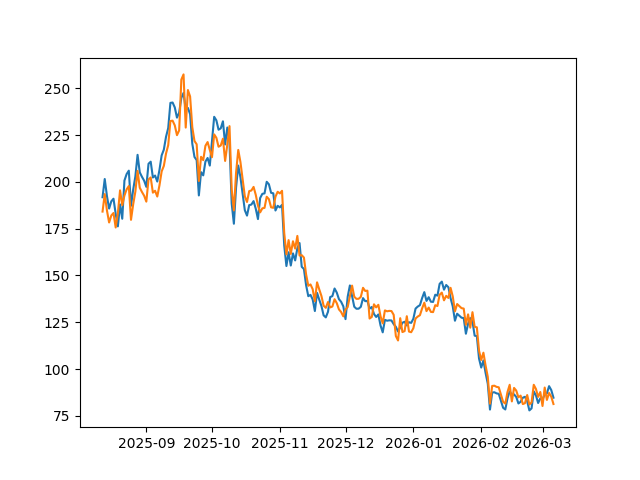
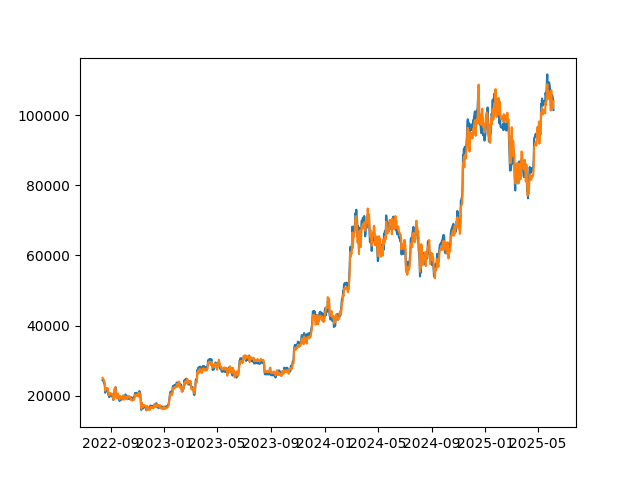
XGBoost

diff --git a/MLPipeline/app/main.py b/MLPipeline/app/main.py
@@ -11,11 +11,13 @@ import make_logger
 import json
 import requests
 import ccxt
+from sqlalchemy import create_engine
+from sqlalchemy import text
 from sklearn.model_selection import GridSearchCV
 from sklearn.tree import DecisionTreeClassifier
 from sklearn.tree import plot_tree
-from sqlalchemy import create_engine
-from sqlalchemy import text
+from sklearn.metrics import accuracy_score
+import xgboost as xgb
 
 current_file_path = Path(__file__).resolve()
 current_dir = current_file_path.parent
@@ -25,7 +27,7 @@ os.environ['WAY_TO_LOG_JOURNAL'] = str(current_dir/'logs'/'log_journal.log')
 os.environ['WAY_EXTRACT_FILES'] = str(current_dir/'extract_files')
 
 make_logger.make()
-logger = logging.getLogger('DATAMINER:dms')
+logger = logging.getLogger('MLPipeline:main')
 
 dataBase_password = os.getenv('DB_PASSWORD')
 dataBase_user = os.getenv('DB_USER')
@@ -38,7 +40,7 @@ engine = create_engine(DATABASE_URL)
 
 def main():
 
-	dataFrame = dataFrameDownloader(symbol='SOL', nameExchange='binance', amountDays=365, timeFrame='1d')
+	dataFrame = dataFrameDownloader(symbol='BTC', nameExchange='binance', amountDays=4*365, timeFrame='1d')
 
 	windowFeatures0 = 7
 	windowFeatures1 = 30
@@ -59,16 +61,13 @@ def main():
 				(dataFrame['diffCentreMoving'] > 0),
 				(dataFrame['diffCentreMoving'] < 0)
 			],
-			[
-				-1,
-				1
-			],
+			[0, 1],
 			default=0
 		)
 
 	plt.plot(dataFrame['datetime'], dataFrame['close'])
-	plt.plot(dataFrame['datetime'], dataFrame['centreMoving'])
-	plt.savefig(str(current_dir/'output'/'plotInd0.png'))
+	plt.plot(dataFrame['datetime'], dataFrame['close']*(1+(dataFrame['classEDU'] - 0.5)/20))
+	plt.savefig(str(current_dir/'output'/'plot0.png'))
 	plt.close()
 
 	workDataFrame = dataFrame.iloc[windowFeatures2:]
@@ -91,48 +90,33 @@ def main():
 	vectorF2 = np.array(workDataFrame['features2']).reshape(-1, 1)[uniCut:]
 	xTest = np.column_stack((vectorF0, vectorF1, vectorF2))
 
-	baseModel = DecisionTreeClassifier(random_state=42)
-
-	paramGrid = {
-		'max_depth': [3, 4, 5, None],
-		'min_samples_split': [2, 3, 4],
-		'min_samples_leaf': [1, 2, 3, 4],
-		'criterion': ['gini', 'entropy'],
-		'max_features': [None, 'sqrt', 'log2']
-	}
-
-	gridSearch = GridSearchCV(
-		estimator=baseModel,
-		param_grid=paramGrid,
-		cv=5,
-		scoring='accuracy',
-		n_jobs=-1,
-		verbose=1
+	model = xgb.XGBClassifier(
+		n_estimators=100,      # количество деревьев
+		max_depth=3,           # глубина дерева
+		learning_rate=0.1,     # шаг градиентного спуска
+		objective='binary:logistic',  # для многоклассовой классификации
+		eval_metric='logloss',
+		random_state=42
 	)
 
-	gridSearch.fit(xTrain, yTrain)
-	model = gridSearch.best_estimator_
-
-	plt.figure(figsize=(12, 8))
-	plot_tree(model, 
-			  feature_names=['features0', 'features1', 'features2'],
-			  class_names=['Buy', 'Sell', 'Wait'],
-			  filled=True,
-			  rounded=True,
-			  fontsize=10)
-	plt.title("DecisionTreeClassifier")
-	plt.savefig(str(current_dir/'output'/'plot0.png'))
-	plt.close()
+	model.fit(xTrain, yTrain)
 
 	yPredict = model.predict(xTrain)
+	accuracy = accuracy_score(yTrain, yPredict)
+	logger.info(f"Точность модели: {100*accuracy:.2f} %")
+
+	importance = model.feature_importances_
+	for i in range(len(importance)):
+		logger.info(f"{i}: {importance[i]:.3f}")
+
 	plt.plot(datetimeTrain, closeTrain)
-	plt.plot(datetimeTrain, closeTrain*(1+yPredict/25))
+	plt.plot(datetimeTrain, closeTrain*(1+(yPredict - 0.5)/20))
 	plt.savefig(str(current_dir/'output'/'plot1.png'))
 	plt.close()
 
 	yPredict = model.predict(xTest)
 	plt.plot(datetimeTest, closeTest)
-	plt.plot(datetimeTest, closeTest*(1+yPredict/25))
+	plt.plot(datetimeTest, closeTest*(1+(yPredict - 0.5)/20))
 	plt.savefig(str(current_dir/'output'/'plot2.png'))
 	plt.close()
 